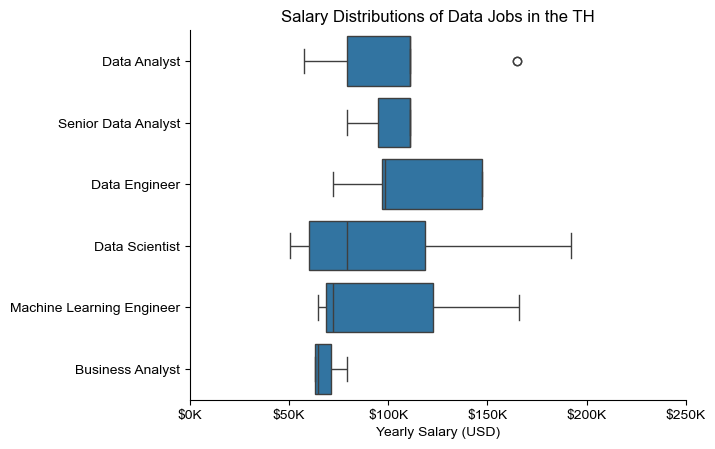
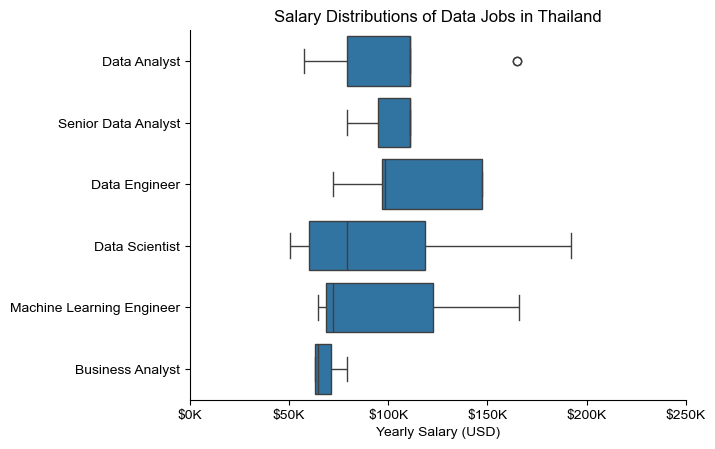
Edit typo

Changed region(s): [[0.3692, 0.0, 0.8615, 0.0624]]

diff --git a/README.md b/README.md
@@ -145,7 +145,7 @@ sns.set_theme(style='ticks')
 sns.despine()
 
 # this is all the same
-plt.title('Salary Distributions of Data Jobs in the TH')
+plt.title('Salary Distributions of Data Jobs in Thailand')
 plt.xlabel('Yearly Salary (USD)')
 plt.ylabel('')
 plt.xlim(0, 250000) 
